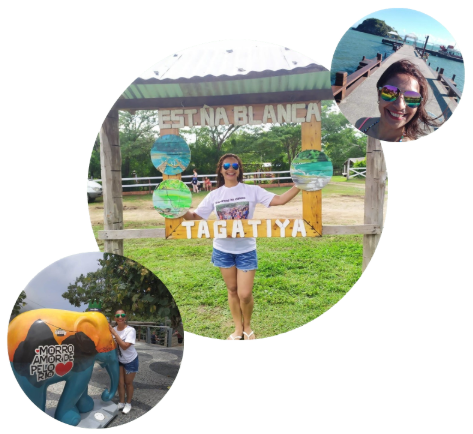
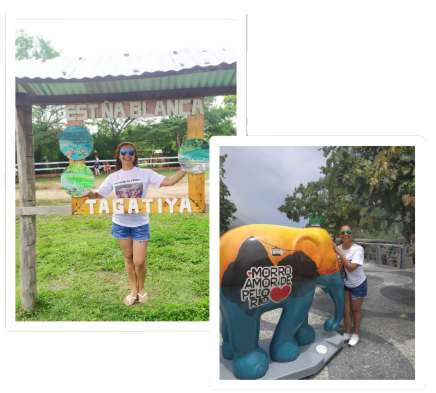
updated styles

diff --git a/src/css/partials/_text-block.scss b/src/css/partials/_text-block.scss
@@ -51,7 +51,9 @@
 
 //figure
 .textBlock__figure {
-    margin-top: 3rem;
+    position: relative;
+    margin-top: 3rem auto 0;
+    max-width: 380px;
     @media only screen and (min-width: 992px) {
         margin-top: 0;
     }
@@ -62,6 +64,7 @@
     position: relative;
     max-width: 380px;
     margin: 0 auto;
+    z-index: 5;
     & img {
         width: 100%;
         display: block;
@@ -75,10 +78,10 @@
 
 .textBlock__figure--topGif {
     position: absolute;
-    max-width: 65px;
-    right: 90px;
-    top: 20px;
-    transform: rotate(-50deg);
+    max-width: 85px;
+    right: 65px;
+    top: 25px;
+    transform: rotate(20deg);
     & img {
         width: 100%;
     }
@@ -89,10 +92,10 @@
 
 .textBlock__figure--bottomGif {
     position: absolute;
-    max-width: 65px;
-    left: 22px;
-    bottom: 130px;
-    transform: rotate(-95deg);
+    max-width: 80px;
+    left: 88px;
+    bottom: -26px;
+    transform: rotate(-135deg);
     & img {
         width: 100%;
     }

diff --git a/html/index.html b/html/index.html
@@ -69,7 +69,7 @@
         <div class="col-12 col-lg-6">
           <div class="textBlock__figure">
             <figure class="textBlock__figure--topGif">
-              <img src="../src/asset/7ac23c2a8a.gif" alt="">
+              <img src="../src/asset/about-gif.gif" alt="">
             </figure>
 
             <figure class="textBlock__figure--img">
@@ -77,7 +77,7 @@
             </figure>
 
             <figure class="textBlock__figure--bottomGif">
-              <img src="../src/asset/7ac23c2a8a.gif" alt="">
+              <img src="../src/asset/about-gif.gif" alt="">
             </figure>
           </div>
         </div>
